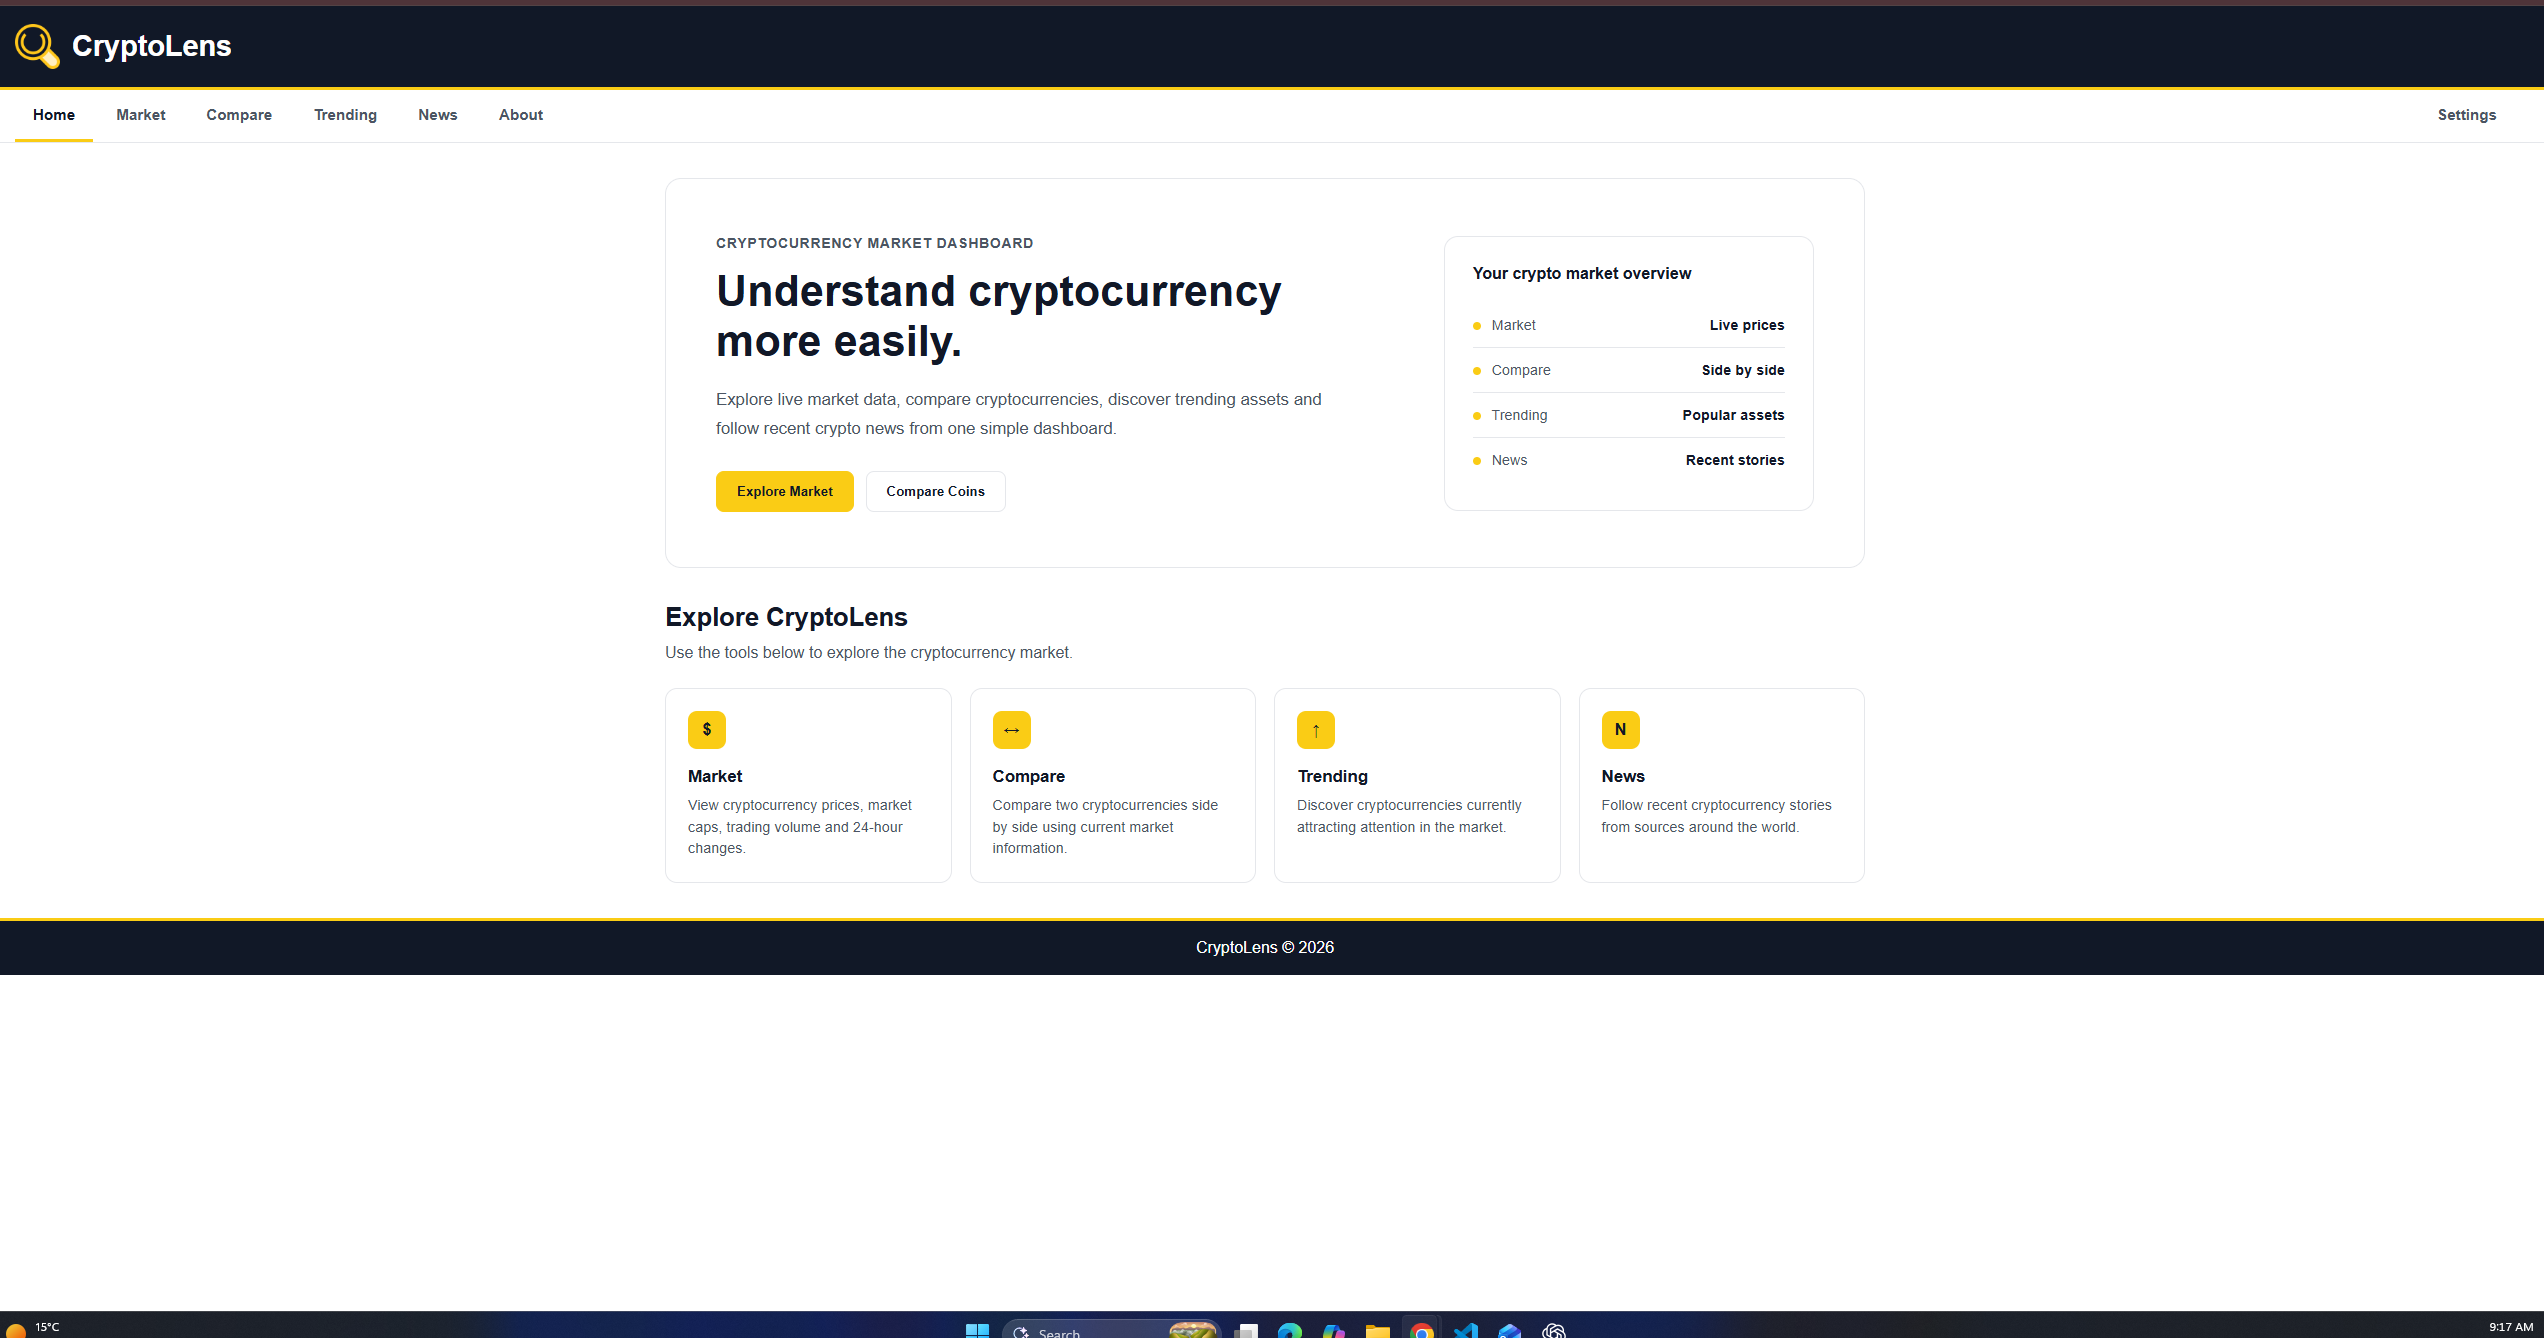
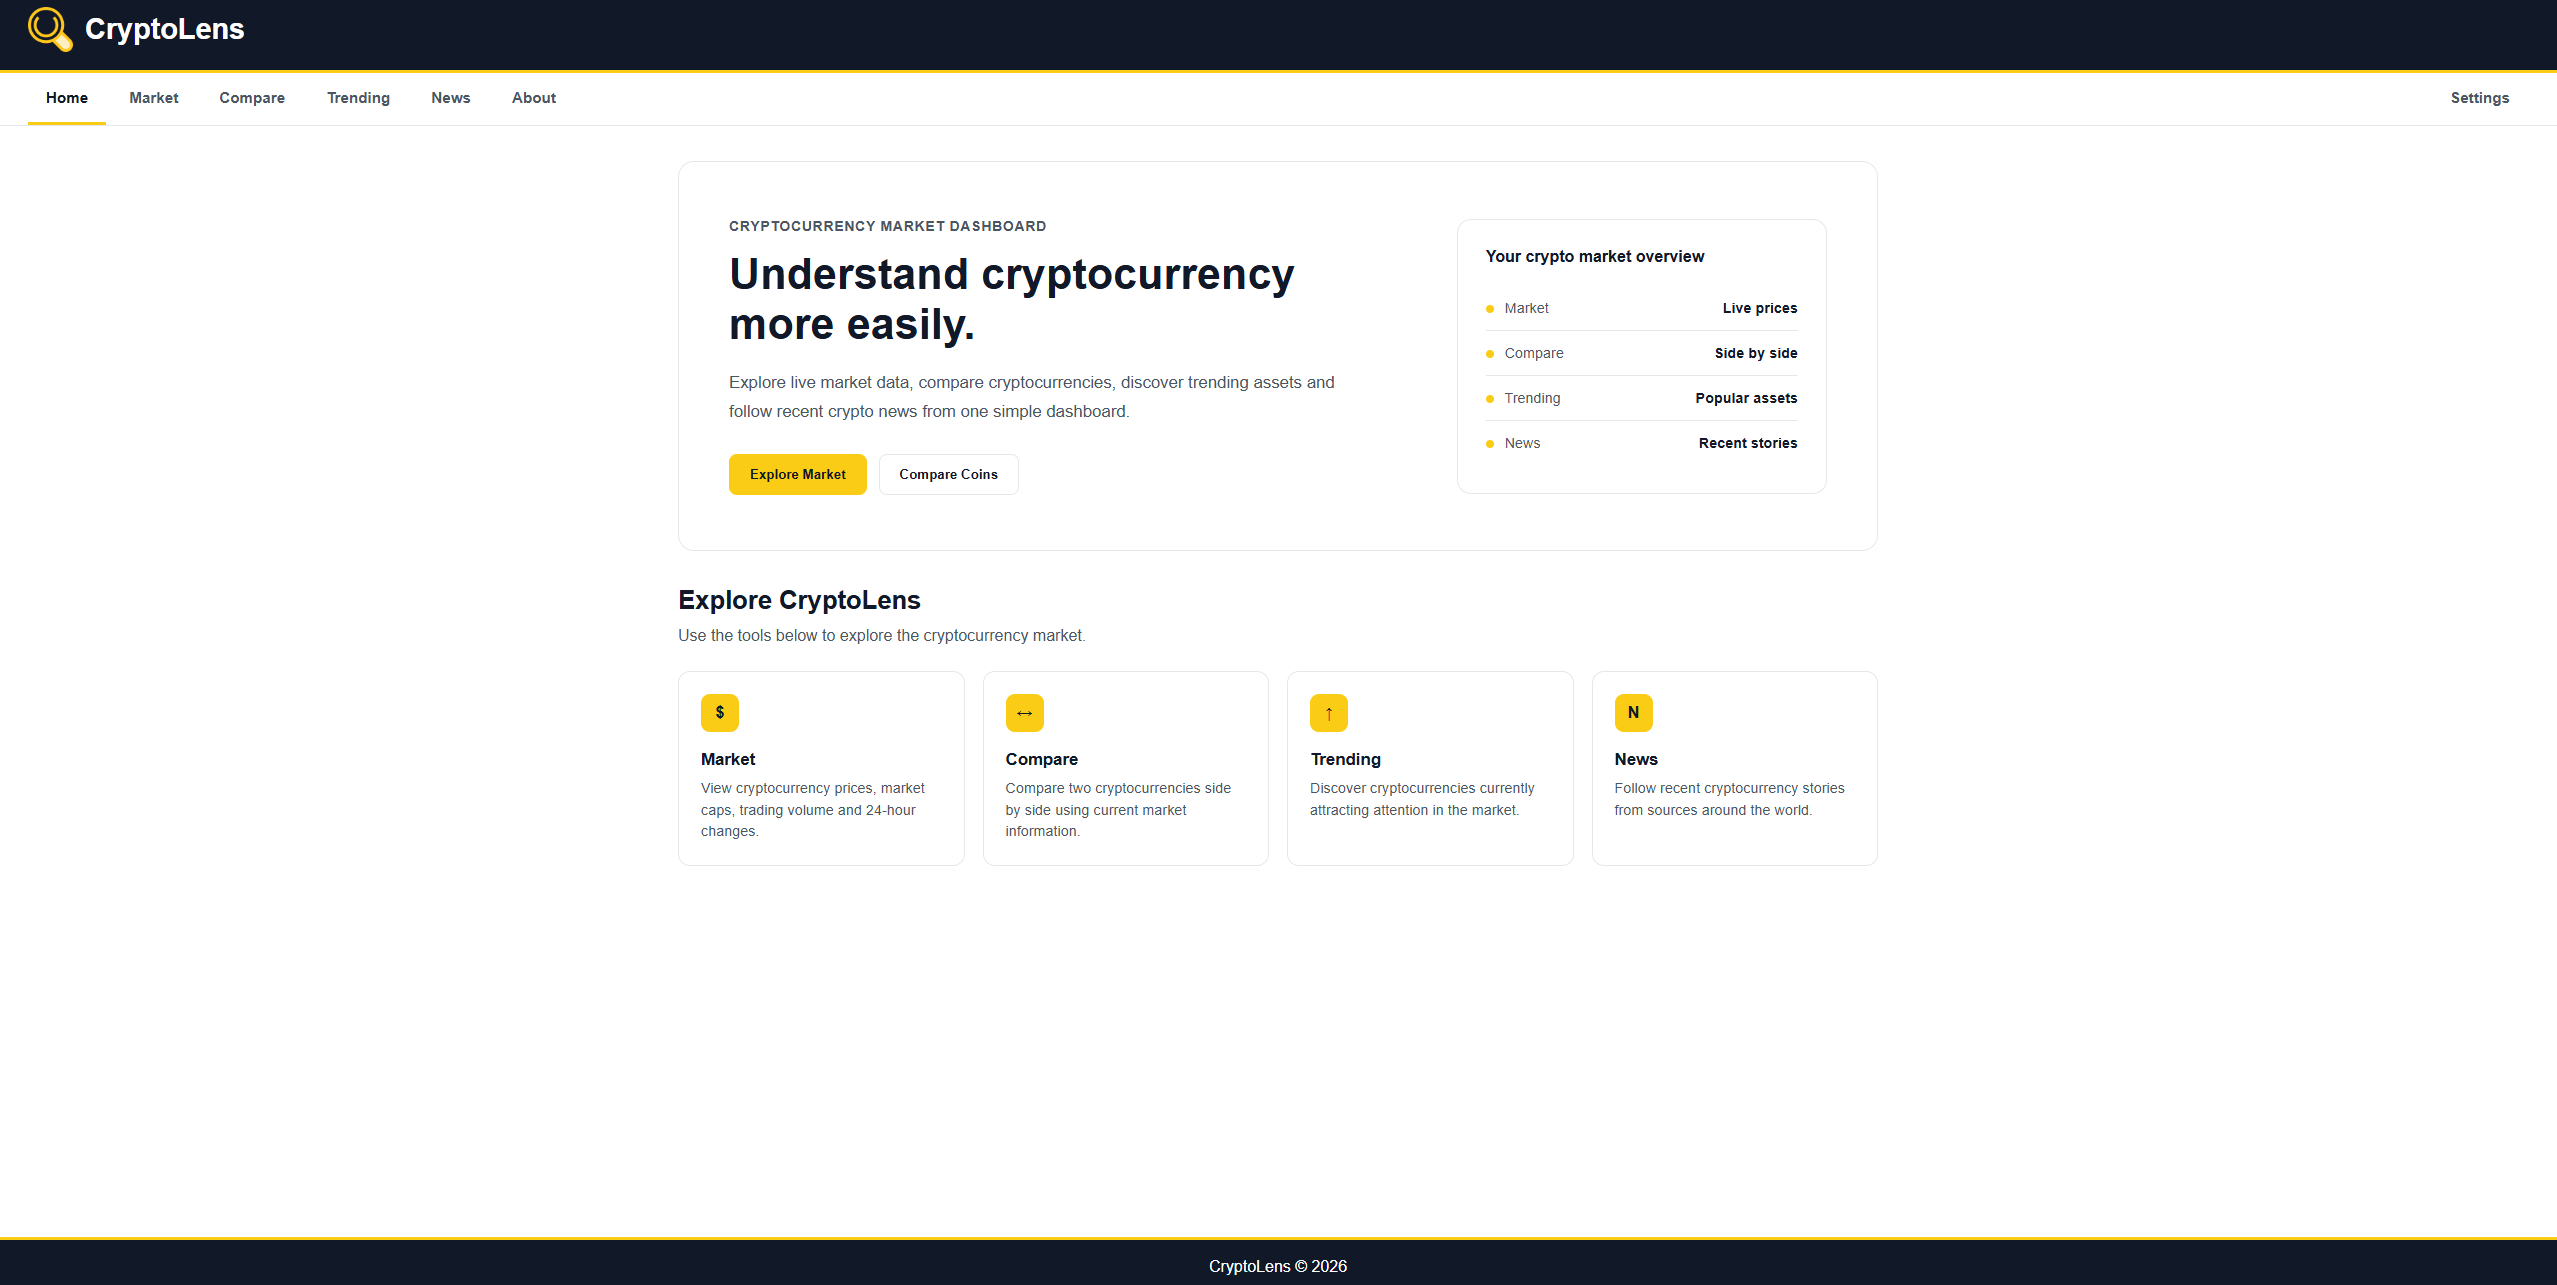
README markdown file added

diff --git a/README.md b/README.md
@@ -19,7 +19,7 @@ Browse current cryptocurrency market information including:
 - Cryptocurrency ranking
 - Search by cryptocurrency name or symbol
 
-Users can display the Top 10, Top 25, or Top 50 cryptocurrencies.
+Users can choose to display the Top 10, Top 25, or Top 50 cryptocurrencies.
 
 ![CryptoLens Market](./img/market-screenshot.png)
 
@@ -39,19 +39,25 @@ The comparison includes:
 
 ### Trending Cryptocurrencies
 
-Discover cryptocurrencies that are currently attracting attention using CoinGecko's trending market data.
+Discover cryptocurrencies that are currently attracting attention using CoinGecko's trending cryptocurrency data.
+
+![CryptoLens Trending](./img/trending-screenshot.png)
 
 ### Cryptocurrency News
 
 Follow recent cryptocurrency stories from sources around the world.
 
-News cards provide article titles, descriptions, publication information, and links to the original articles.
+News cards display article titles, descriptions, publication information, and links to the original articles.
+
+Users can choose to display 6, 9, or 12 news articles.
 
 ![CryptoLens News](./img/news-screenshot.png)
 
 ### User Preferences
 
-CryptoLens allows users to customize their experience with:
+CryptoLens includes a dedicated Settings page where users can customize their experience.
+
+Available preferences include:
 
 - Light and dark themes
 - USD, AUD, EUR, and GBP currencies
@@ -60,6 +66,8 @@ CryptoLens allows users to customize their experience with:
 - Reset preferences option
 
 Preferences are stored locally in the browser using `localStorage`.
+
+![CryptoLens Settings](./img/settings-screenshot.png)
 
 ## Technologies
 
@@ -91,11 +99,13 @@ https://newsdata.io/
 ```text
 CryptoLens/
 ├── img/
-│   ├── CryptoLens Icon.png
+│   ├── CryptoLens_Icon.png
 │   ├── home-screenshot.png
 │   ├── market-screenshot.png
 │   ├── compare-screenshot.png
-│   └── news-screenshot.png
+│   ├── trending-screenshot.png
+│   ├── news-screenshot.png
+│   └── settings-screenshot.png
 │
 ├── src/
 │   ├── components/
@@ -113,6 +123,7 @@ CryptoLens/
 │
 ├── .gitignore
 ├── index.html
+├── package.json
 └── README.md
 ```
 
@@ -136,7 +147,9 @@ For example, you can use the Live Server extension in Visual Studio Code.
 
 ## NewsData API Key Setup
 
-The NewsData API key is intentionally excluded from the repository.
+CryptoLens requires a NewsData.io API key to load cryptocurrency news.
+
+The API key is intentionally excluded from the GitHub repository.
 
 Create the following file:
 
@@ -151,7 +164,7 @@ export const NEWSDATA_API_KEY =
   "YOUR_NEWSDATA_API_KEY";
 ```
 
-The `api-key.js` file is included in `.gitignore` so the API key is not committed to the repository.
+The `api-key.js` file is included in `.gitignore`, preventing the API key from being committed to the repository.
 
 ## Developer
 
